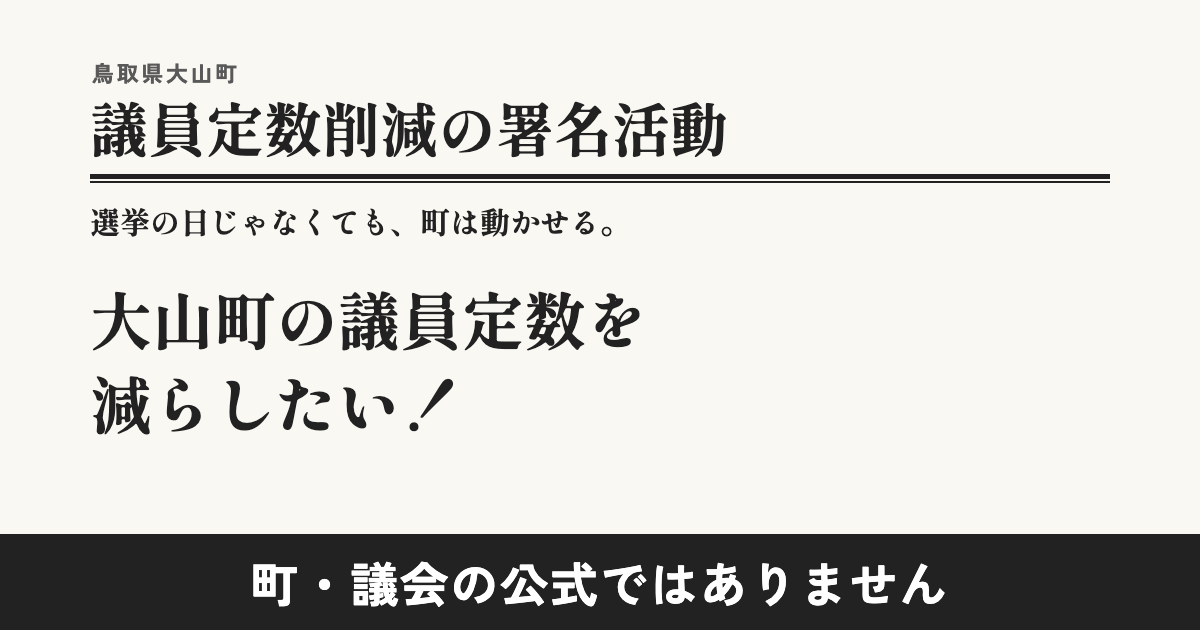
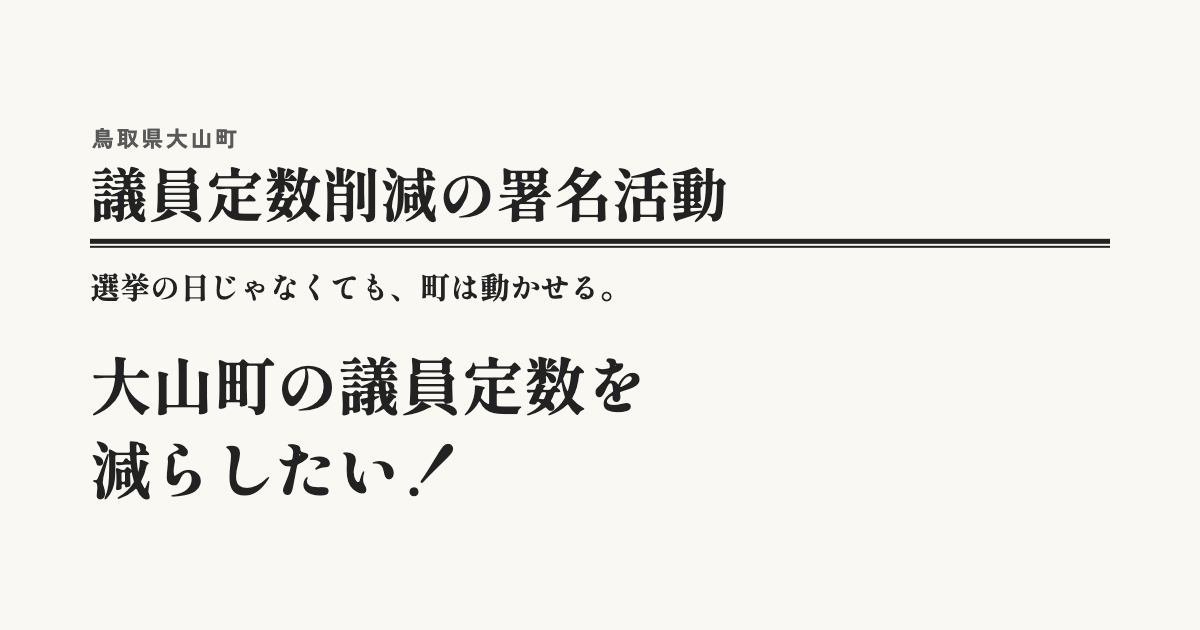
検索の説明文とSNS用画像から「公式ではありません」を外す

diff --git a/src/config/site.ts b/src/config/site.ts
@@ -4,7 +4,7 @@ export const SITE = {
   subtitle: '選挙の日じゃなくても、町は動かせる。',
   place: '鳥取県大山町',
   description:
-    '鳥取県大山町の議員の数（定数）を減らすことを求める、町民の署名活動（直接請求）について、署名から議会で話し合われるまでの流れと提案の中身を解説します。大山町・大山町議会の公式サイトではありません。',
+    '鳥取県大山町の議員の数（定数）を減らすことを求める、町民の署名活動（直接請求）について、署名から議会で話し合われるまでの流れと提案の中身を解説します。',
   notOfficial: '大山町・大山町議会の公式サイトではありません',
   operator: '小谷英介',
   operatorTitle: '元大山町議会議員',
